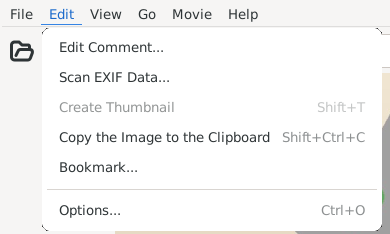
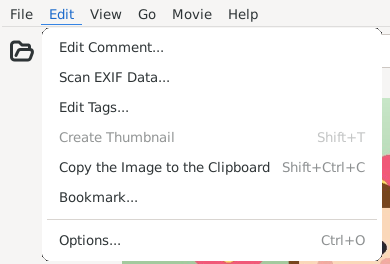
Edit Tags in the Edit menus, the preview and the image window
"Edit Tags..." was only in the right button menu of the thumbnail
view.  It is now also in [Edit] of the thumbnail window (the images
selected) and of the image window, and in the right button menu of the
image view (the preview and the image window; the image shown).  No
key by default, as Bookmark; one can be given in ~/.gimv/keyaccelrc.
The image window's right button menu has Bookmark... too.

Manual (menus, mouse menus, tagging), NEWS and history updated, the
Edit menu screenshots taken again.

diff --git a/doc/en/02.html b/doc/en/02.html
@@ -112,7 +112,7 @@ A click on the text of a row shows its images in the result tab of the thumbnail
 </p></dd>
 <dt><span class="term"><a name="index_tags"></a>Tagging</span></dt>
 <dd><p class="para">
-"Edit Tags..." of the right button menu of the thumbnail view tags the images selected (one or more). A tag typed in the entry at the top is put on with Enter (several separated by commas; a tag may have "/" in it, like "travel/Kyoto"). The tags on the images are shown below it, × takes one away. "Tags in Use" at the bottom lists the tags most used first, narrowed by what is typed; a click puts one on. With several images, a tag only some of them have is shown as "Kyoto 2/5": a click puts it on all of them, × takes it away from all of them (left alone, it stays as it is on each). Enter with nothing typed is OK.</p>
+"Edit Tags..." of the right button menu of the thumbnail view, or [Edit | Edit Tags...], tags the images selected (one or more); in the image window [Edit | Edit Tags...] or the right button menu of the image, in the preview "Edit Tags..." in the right button menu, tags the image shown. A tag typed in the entry at the top is put on with Enter (several separated by commas; a tag may have "/" in it, like "travel/Kyoto"). The tags on the images are shown below it, × takes one away. "Tags in Use" at the bottom lists the tags most used first, narrowed by what is typed; a click puts one on. With several images, a tag only some of them have is shown as "Kyoto 2/5": a click puts it on all of them, × takes it away from all of them (left alone, it stays as it is on each). Enter with nothing typed is OK.</p>
 <div class="figure"><img src="images/tags_dialog.png" width="440" height="463" alt="Editing tags">
 <p class="caption">Editing tags</p></div>
 <p class="para"> They are written in the "X-IMG-Tags:" line of the comment files (~/.gimv/comment), so they are kept when the index is made again. The names of the people given to the faces (the tags "person/NAME") are not among the tags: they are shown under "People" and kept as they are (names are given in the faces window or the faces panel). The "Tags:" row of the "Data" tab (comment window and preview) shows the tags of the image; a click opens the images with the tag.

diff --git a/doc/en/03.html b/doc/en/03.html
@@ -115,9 +115,9 @@ All thumbnail windows and image windows are closed.
 <div class="sect2">
 <div class="titlepage"><div><h3 class="title">
 <a name="03-02"></a>3.2. Edit</h3></div></div>
-<div class="figure"><img src="images/menu_edit.png" width="288" height="452" alt="The Edit menu of the thumbnail window (one image selected)">
+<div class="figure"><img src="images/menu_edit.png" width="288" height="482" alt="The Edit menu of the thumbnail window (one image selected)">
 <p class="caption">The Edit menu of the thumbnail window (one image selected)</p></div>
-<div class="figure"><img src="images/menu_i_edit.png" width="390" height="234" alt="The Edit menu of the image window">
+<div class="figure"><img src="images/menu_i_edit.png" width="390" height="264" alt="The Edit menu of the image window">
 <p class="caption">The Edit menu of the image window</p></div>
 <div class="variablelist"><dl>
 <dt><span class="term"><a name="select_all"></a>Select All [Ctrl + A]</span></dt>
@@ -214,6 +214,12 @@ This cannot be undone.  Answer the confirmation dialog carefully.
 <dd>
 <p class="para">
 <span class="emphasis"><i>Image window only</i></span>.  Creates the thumbnail of the image shown, in the format of "Cache type for saving" in [Preferences | Thumbnail Cache].
+</p>
+</dd>
+<dt><span class="term"><a name="edit_tags_menu"></a>Edit Tags...</span></dt>
+<dd>
+<p class="para">
+Only with the image index.  Edits the tags of the selected images (in the image window, the image shown) (<a href="02.html#index_tags">2.2</a>).  No key by default.
 </p>
 </dd>
 <dt><span class="term"><a name="bookmark_menu"></a>Bookmark...</span></dt>

diff --git a/doc/ja/05.html b/doc/ja/05.html
@@ -234,6 +234,7 @@ GTK 4 版では、次の項目を加えています (プレビューのマウス
 <li><p class="para">画像をクリップボードにコピー (Shift+Ctrl+C) : 表示している画像をクリップボードにコピーします。</p></li>
 <li><p class="para">顔の編集 (P) : 顔パネルを開き、画像に写っている顔に名前を付けます (<a href="02.html#face_panel">2.3</a>)。顔の認識が使える場合だけの項目です。</p></li>
 <li><p class="para">元のフォルダを開く : 画像のあるフォルダをサムネイルウィンドウで開きます。</p></li>
+<li><p class="para">タグを編集 : 表示している画像のタグを編集します (<a href="02.html#index_tags">2.2</a>)。画像の索引が使える場合だけの項目です。</p></li>
 <li><p class="para">ブックマーク : 表示している画像をブックマークします (<a href="02.html#02-08">2.8</a>)。</p></li>
 </ul></div>
 </div>

diff --git a/doc/ja/gimv_history.html b/doc/ja/gimv_history.html
@@ -34,6 +34,10 @@
       ~/.gimv/keyaccelrc で設定可)，任意のメモ，「ブックマーク」タブ (付けた
       日ごと，メモのあり・なし)，ツールチップにメモ．画像の移動・名前変更に
       ついていく
+    o タグの編集を画像の検索と同じ形に (入力欄の下に付いているタグ，× で
+      外す．使われているタグをクリックで付ける．人物の名前は残す)．
+      [編集 | タグを編集...]，プレビューとイメージウィンドウの右クリックに
+      も追加
     o スライドショーで 2 枚目以降の画像が描かれなかったのを修正
     o プログラム中の英語のメッセージやメニューの綴り・言い回しを修正
       (Faild -&gt; Failed，Tool -&gt; Tools など)．名前が変わったメニュー項目の

diff --git a/doc/en/05.html b/doc/en/05.html
@@ -234,6 +234,7 @@ The GTK 4 port adds these items (also in the right button menu of the preview):
 <li><p class="para">Copy the Image to the Clipboard (Shift+Ctrl+C) : copies the image shown to the clipboard.</p></li>
 <li><p class="para">Edit Faces (People) (P) : opens the faces panel, to name the faces in the image (<a href="02.html#face_panel">2.3</a>). Only with face recognition.</p></li>
 <li><p class="para">Open the Folder : opens the folder of the image in the thumbnail window.</p></li>
+<li><p class="para">Edit Tags... : edits the tags of the image shown (<a href="02.html#index_tags">2.2</a>). Only with the image index.</p></li>
 <li><p class="para">Bookmark... : bookmarks the image shown (<a href="02.html#02-08">2.8</a>).</p></li>
 </ul></div>
 </div>

diff --git a/doc/en/gimv_history.html b/doc/en/gimv_history.html
@@ -34,6 +34,10 @@
       one can be given in ~/.gimv/keyaccelrc), an optional note, the
       "Bookmarks" tab (by the day added, with or without a note), the
       note in the tooltip; they follow the images moved or renamed.
+    o Edit Tags: an entry with the tags below it (x takes one away),
+      the tags in use to click, the names of people kept; also in
+      [Edit | Edit Tags...] and the right button menus of the preview
+      and the image window.
     o Slide show: the images after the first one are drawn again.
     o Corrected spelling and wording of the English messages and menus
       (Faild -&gt; Failed, Buttton, Thumnail, Tool -&gt; Tools, ...); old key

diff --git a/src/gimv_image_view.c b/src/gimv_image_view.c
@@ -38,6 +38,9 @@
 #include "gimv_comment.h"
 #include "gimv_image_view.h"
 #include "gimv_bookmark_edit.h"
+#ifdef ENABLE_INDEX
+#include "gimv_index_tags.h"
+#endif
 #include "gimv_image_win.h"
 #include "gimv_nav_win.h"
 #include "gtk2-compat.h"
@@ -228,6 +231,9 @@ static void cb_toggle_scrollbar            (GimvImageView   *iv,
 static void cb_open_folder                 (GimvImageView   *iv,
                                             guint            action,
                                             GimvMenuItem    *widget);
+static void cb_edit_tags           (GimvImageView     *iv,
+                                   guint              action,
+                                   GimvMenuItem      *widget);
 static void cb_bookmark            (GimvImageView     *iv,
                                    guint              action,
                                    GimvMenuItem      *widget);
@@ -354,6 +360,9 @@ GimvMenuEntry gimv_image_view_popup_items [] =
    {N_("/Open the _Folder"),      NULL,         cb_open_folder,      0, NULL},
    {N_("/Copy the Image to the C_lipboard"), "<control><shift>C", cb_copy_to_clipboard, 0, NULL},
    {N_("/Edit Faces (_People)"),  "P",          cb_edit_faces,       0, NULL},
+#ifdef ENABLE_INDEX
+   {N_("/Edit _Tags..."),         NULL,         cb_edit_tags,        0, NULL},
+#endif
    /* no key: one can be given in ~/.gimv/keyaccelrc */
    {N_("/_Bookmark..."),          NULL,         cb_bookmark,         0, NULL},
    {N_("/Memory _Buffer"),        "<control>B", cb_toggle_buffer,    0, "<ToggleItem>"},
@@ -1103,6 +1112,33 @@ static void
 cb_copy_to_clipboard (GimvImageView *iv, guint action, GimvMenuItem *widget)
 {
    gimv_image_view_copy_to_clipboard (iv);
+}
+
+
+static void
+cb_edit_tags (GimvImageView *iv, guint action, GimvMenuItem *widget)
+{
+   gimv_image_view_edit_tags (iv);
+}
+
+
+/* the tags of the image shown (the dialog of the thumbnail view) */
+void
+gimv_image_view_edit_tags (GimvImageView *iv)
+{
+#ifdef ENABLE_INDEX
+   GList infos = { NULL, NULL, NULL };
+   GtkRoot *root;
+
+   g_return_if_fail (GIMV_IS_IMAGE_VIEW (iv));
+   /* files of an archive have no comment file of their own */
+   if (!iv->info || gimv_image_info_is_in_archive (iv->info)
+       || (iv->info->flags & GIMV_IMAGE_INFO_MRL_FLAG))
+      return;
+   infos.data = iv->info;
+   root = gtk_widget_get_root (GTK_WIDGET (iv));
+   gimv_index_edit_tags (GTK_IS_WINDOW (root) ? GTK_WINDOW (root) : NULL, &infos);
+#endif
 }
 
 

diff --git a/src/gimv_image_win.c b/src/gimv_image_win.c
@@ -156,6 +156,9 @@ static void     cb_ignore_alpha         (GimvImageWin *iv,
 static void     cb_toggle_menubar       (GimvImageWin *iw,
                                          guint         action,
                                          GimvMenuItem    *widget);
+static void     cb_edit_tags          (GimvImageWin   *iw,
+                                       guint           action,
+                                       GimvMenuItem   *widget);
 static void     cb_bookmark           (GimvImageWin   *iw,
                                        guint           action,
                                        GimvMenuItem   *widget);
@@ -312,6 +315,9 @@ GimvMenuEntry gimv_image_win_menu_items[] =
    {N_("/_Edit"),                        NULL,         NULL,              0,  "<Branch>"},
    {N_("/_Edit/Edit _Comment..."),       NULL,         cb_edit_comment,   0,  NULL},
    {N_("/_Edit/Scan E_XIF Data..."),       NULL,       cb_exif,           0,  NULL},
+#ifdef ENABLE_INDEX
+   {N_("/_Edit/Edit _Tags..."),          NULL,         cb_edit_tags,      0,  NULL},
+#endif
    {N_("/_Edit/Create _Thumbnail"),      "<shift>T",   cb_create_thumb,   0,  NULL},
    {N_("/_Edit/Copy the Image to the C_lipboard"), "<control><shift>C", cb_copy_to_clipboard, 0, NULL},
    /* no key: one can be given in ~/.gimv/keyaccelrc */
@@ -339,6 +345,11 @@ GimvMenuEntry gimv_image_win_view_items [] =
    {N_("/Ignore _Alpha Channel"), NULL,cb_ignore_alpha,      0,  "<ToggleItem>"},
    {N_("/_Checkerboard Behind Transparency"), NULL, cb_alpha_checker, 0, "<ToggleItem>"},
    {N_("/Edit Faces (_People)"), "P",  cb_edit_faces,        0,  NULL},
+   /* also in the right button menu of the image (this menu) */
+#ifdef ENABLE_INDEX
+   {N_("/Edit _Tags..."),  NULL,       cb_edit_tags,         0,  NULL},
+#endif
+   {N_("/_Bookmark..."),   NULL,       cb_bookmark,          0,  NULL},
    {N_("/---"),           NULL,        NULL,                 0,  "<Separator>"},
    {N_("/_Menubar"),     "M",         cb_toggle_menubar,    0,  "<ToggleItem>"},
    {N_("/_Toolbar"),     "N",         cb_toggle_toolbar,    0,  "<ToggleItem>"},
@@ -1367,6 +1378,13 @@ static void
 cb_copy_to_clipboard (GimvImageWin *iw, guint action, GimvMenuItem *widget)
 {
    if (iw->iv) gimv_image_view_copy_to_clipboard (iw->iv);
+}
+
+
+static void
+cb_edit_tags (GimvImageWin *iw, guint action, GimvMenuItem *widget)
+{
+   if (iw->iv) gimv_image_view_edit_tags (iw->iv);
 }
 
 

diff --git a/src/gimv_thumb_win.c b/src/gimv_thumb_win.c
@@ -226,6 +226,11 @@ static void cb_select_all           (GimvThumbWin  *tw,
 static void cb_bookmark             (GimvThumbWin  *tw,
                                      guint          action,
                                      GimvMenuItem     *widget);
+#ifdef ENABLE_INDEX
+static void cb_edit_tags            (GimvThumbWin  *tw,
+                                     guint          action,
+                                     GimvMenuItem     *widget);
+#endif
 static void cb_refresh_list         (GimvThumbWin  *tw,
                                      guint          action,
                                      GimvMenuItem     *widget);
@@ -449,6 +454,9 @@ GimvMenuEntry gimv_thumb_win_menu_items[] =
    {N_("/_Edit/Remo_ve Files..."),       "<del>",      cb_file_operate,  FILE_REMOVE, NULL},
    {N_("/_Edit/---"),                   NULL,         NULL,             0,            "<Separator>"},
    /* no key: one can be given in ~/.gimv/keyaccelrc */
+#ifdef ENABLE_INDEX
+   {N_("/_Edit/Edit _Tags..."),         NULL,         cb_edit_tags,     0,            NULL},
+#endif
    {N_("/_Edit/_Bookmark..."),          NULL,         cb_bookmark,      0,            NULL},
    {N_("/_Edit/---"),                   NULL,         NULL,             0,            "<Separator>"},
    {N_("/_Edit/_Options..."),           "<control>O", cb_open,          OPEN_PREFS,   NULL},
@@ -3002,6 +3010,16 @@ cb_bookmark (GimvThumbWin *tw, guint action, GimvMenuItem *widget)
    GimvThumbView *tv = gimv_thumb_win_find_thumbtable (tw, GIMV_THUMB_WIN_CURRENT_PAGE);
    if (tv) gimv_thumb_view_bookmark_selection (tv);
 }
+
+
+#ifdef ENABLE_INDEX
+static void
+cb_edit_tags (GimvThumbWin *tw, guint action, GimvMenuItem *widget)
+{
+   GimvThumbView *tv = gimv_thumb_win_find_thumbtable (tw, GIMV_THUMB_WIN_CURRENT_PAGE);
+   if (tv) gimv_thumb_view_edit_tags_selection (tv);
+}
+#endif
 
 
 static void

diff --git a/src/gimv_image_view.h b/src/gimv_image_view.h
@@ -305,6 +305,8 @@ gboolean    gimv_image_view_point_to_face   (GimvImageView *iv,
  * the face: x, y, w, h in [0, 1] of the image as its EXIF orientation shows
  * it, with some room around it */
 gboolean    gimv_image_view_copy_to_clipboard      (GimvImageView *iv);
+/* the tags of the image shown (the dialog; with the index only) */
+void        gimv_image_view_edit_tags              (GimvImageView *iv);
 /* the image shown bookmarked (the popover for the note) */
 void        gimv_image_view_bookmark               (GimvImageView *iv);
 gboolean    gimv_image_view_copy_face_to_clipboard (GimvImageView *iv,
